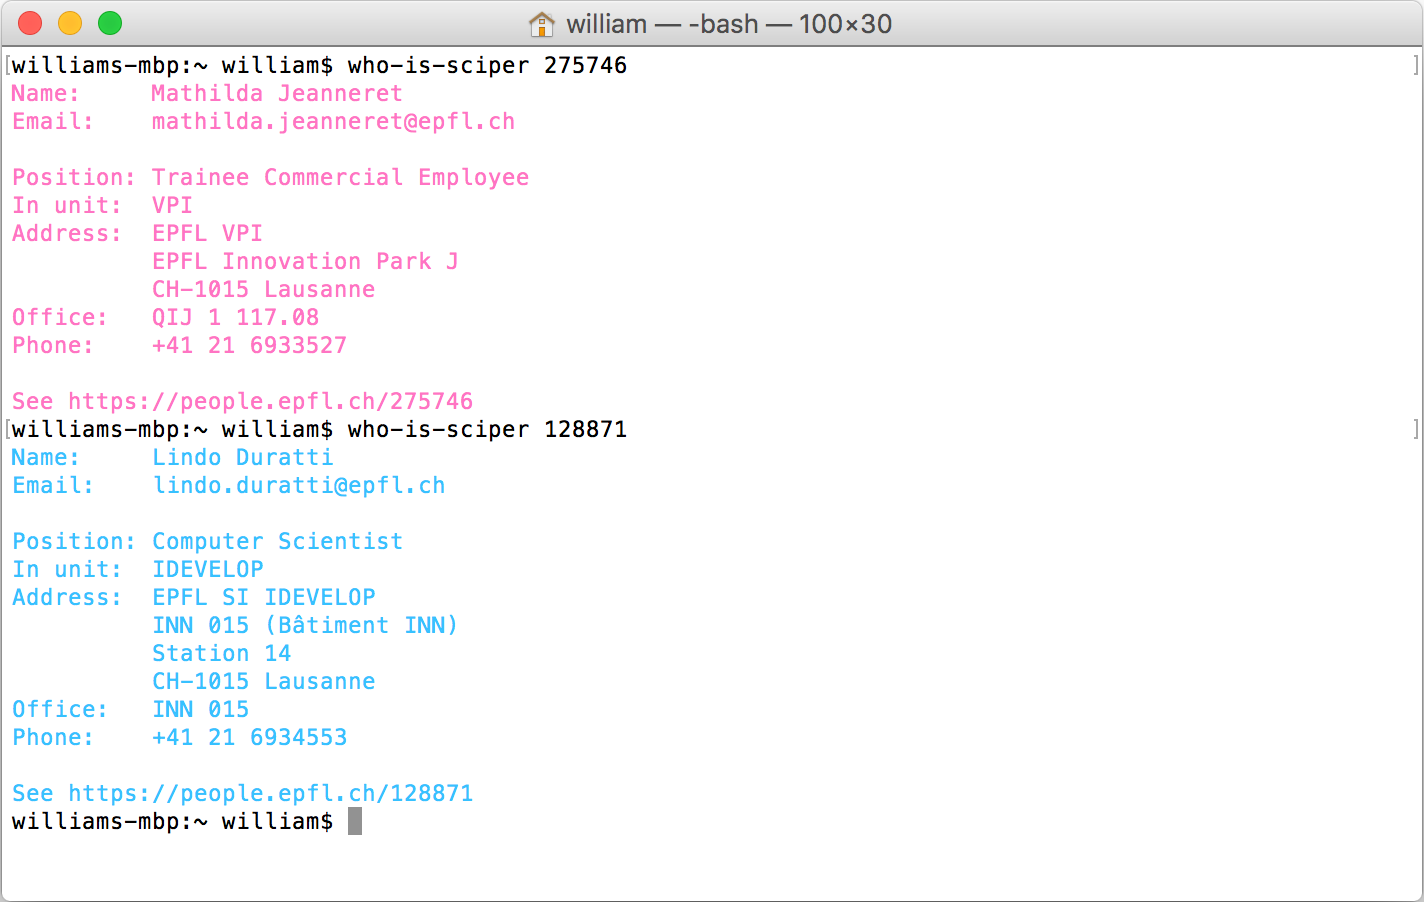
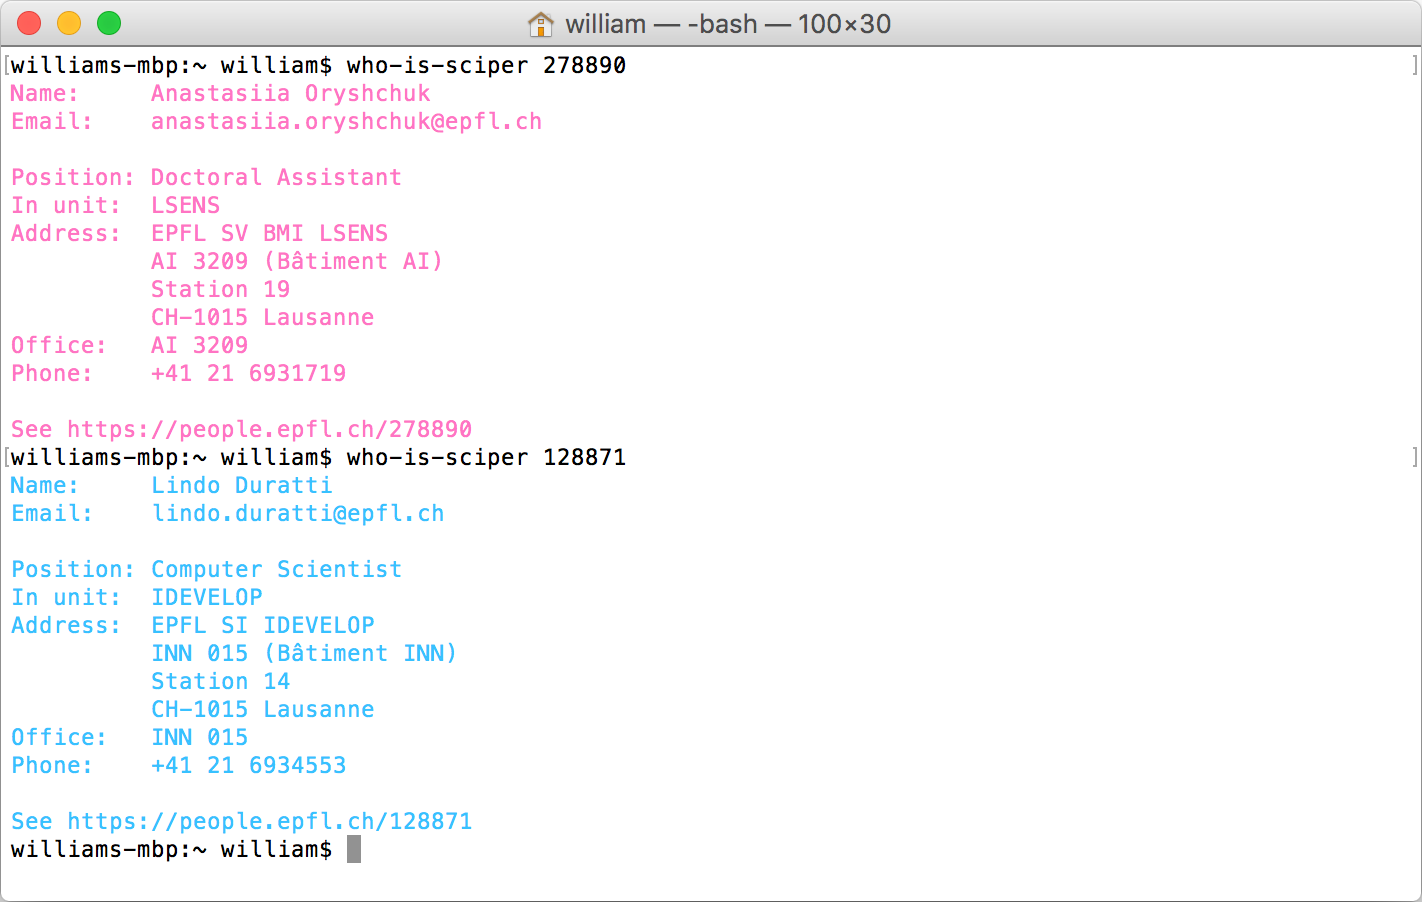
update cli example

diff --git a/src/cli.js b/src/cli.js
@@ -30,7 +30,7 @@ const yargs = require('yargs')
   .alias('h', 'help')
   .usage('Usage: $0 <sciper>')
   .example('$0 128871')
-  .example('$0 275746 -l fr')
+  .example('$0 278890 -l fr')
   .epilog('Copyright 2017-2018 ECOLE POLYTECHNIQUE FEDERALE DE LAUSANNE, ' +
     'Switzerland, VPSI.');
 

diff --git a/README.md b/README.md
@@ -50,7 +50,7 @@ Options:
 
 Examples:
   who-is-sciper 128871
-  who-is-sciper 275746 -l fr
+  who-is-sciper 278890 -l fr
 
 Copyright 2017-2018 ECOLE POLYTECHNIQUE FEDERALE DE LAUSANNE, Switzerland, VPSI.
 ```
